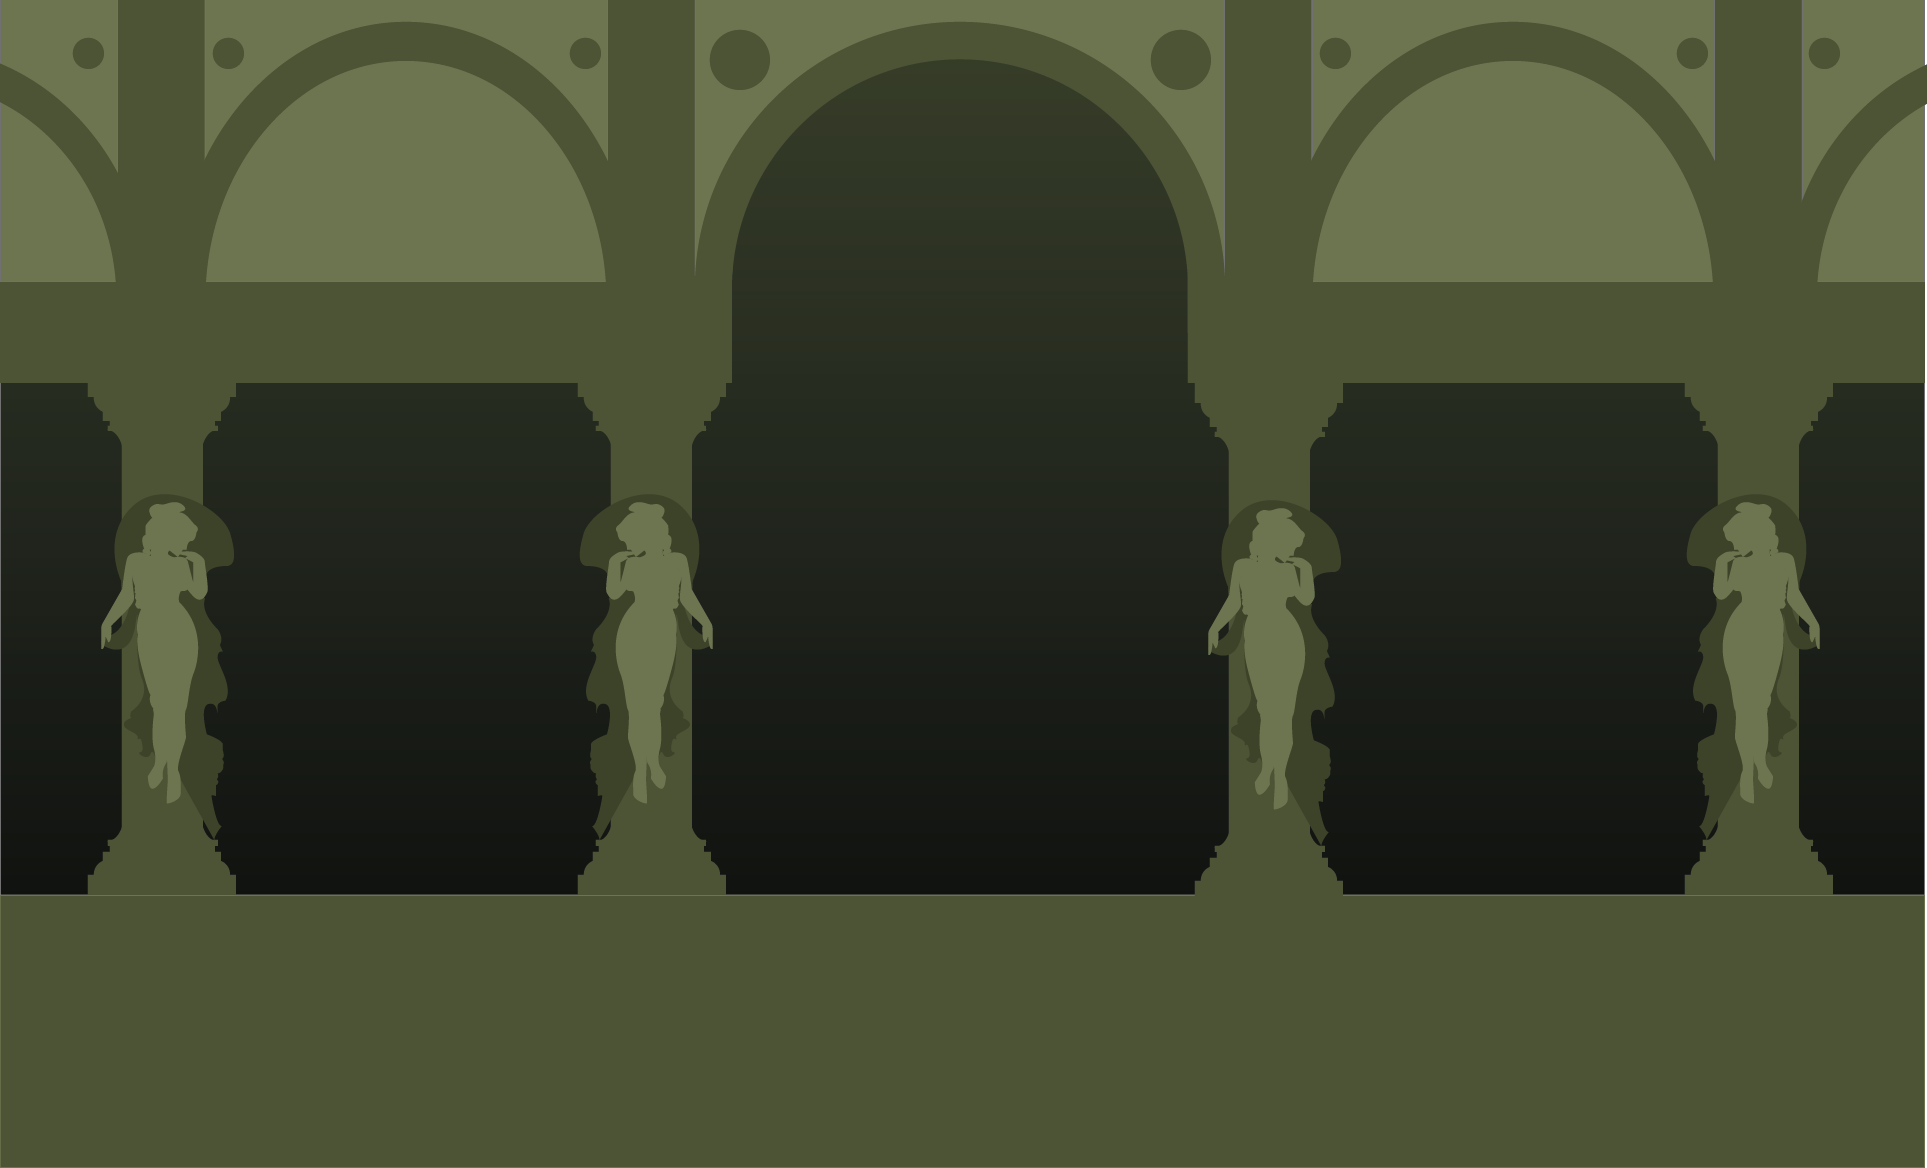
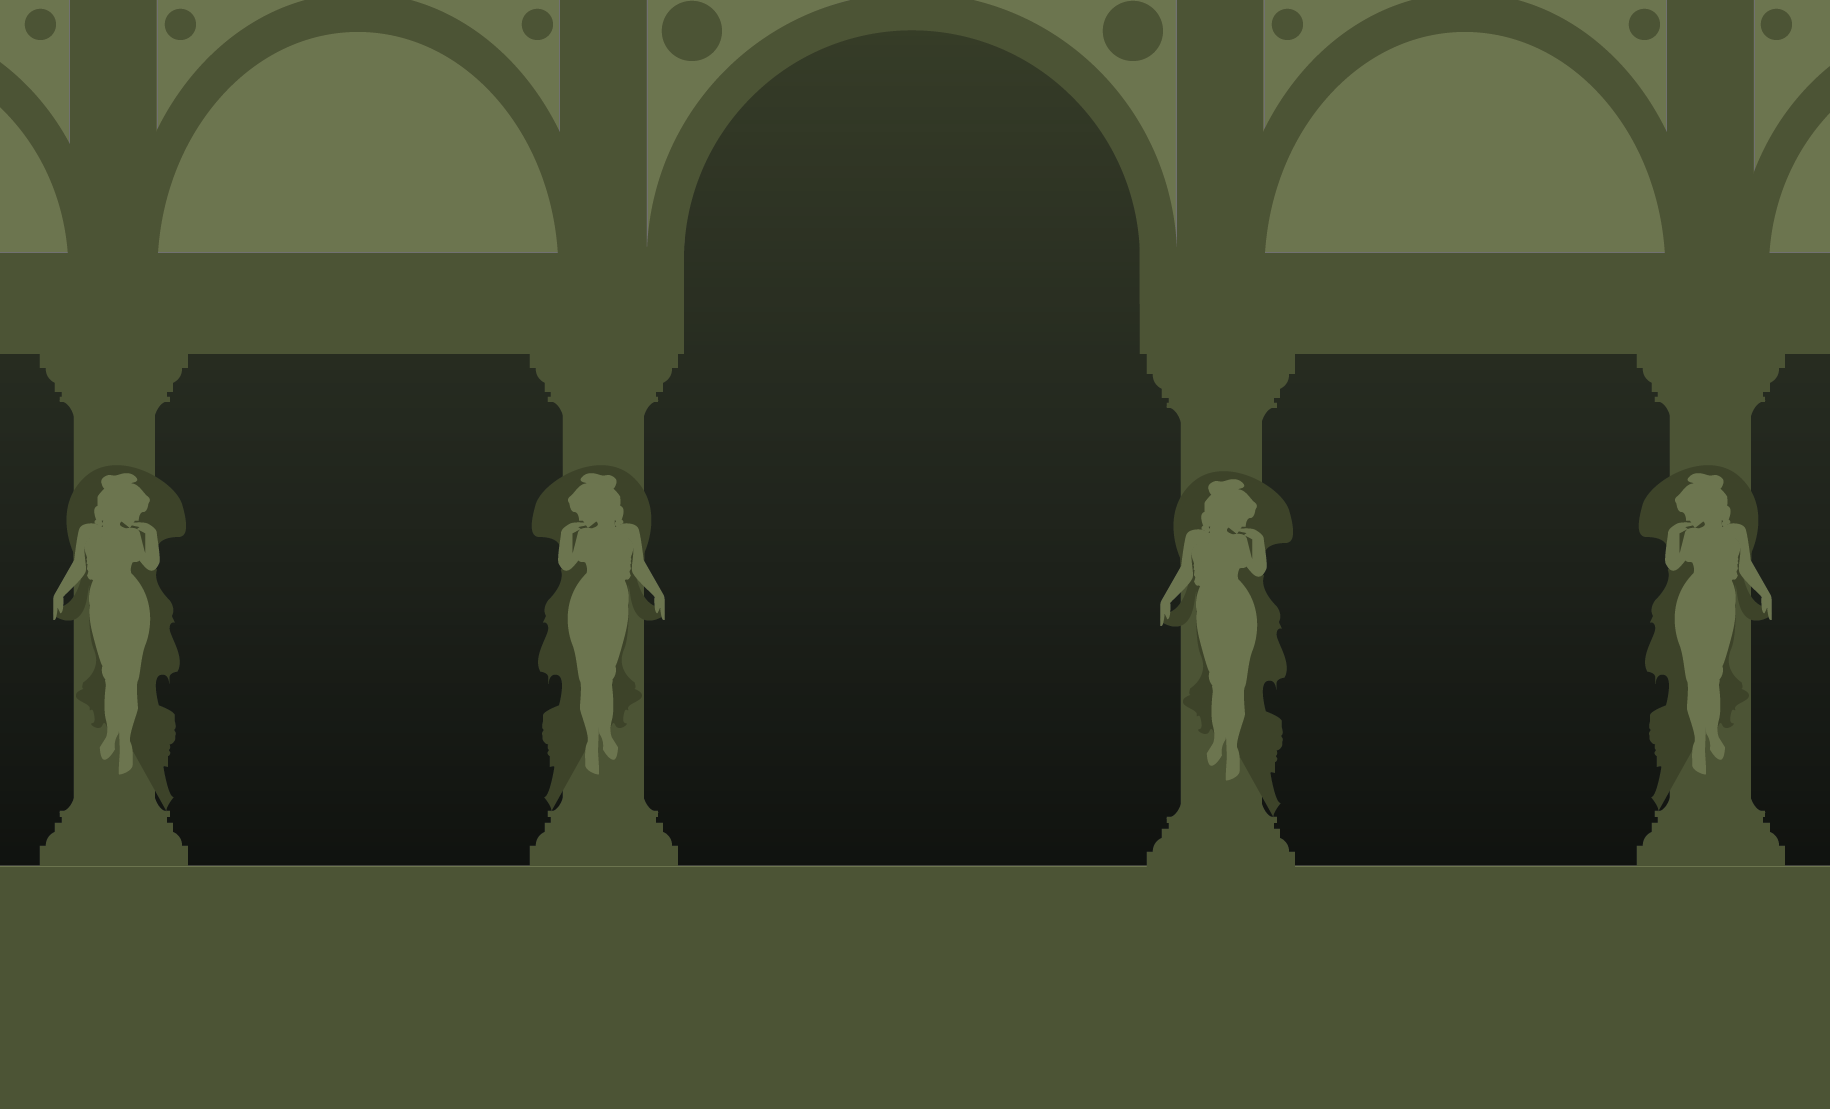
Iniciacion de el main donde se encuentra el arte

Changed region(s): [[0.0, 0.0, 1.0, 1.0], [0.0, 0.3066, 0.3738, 0.7971], [0.3738, 0.7665, 0.623, 0.7971]]

diff --git a/style.css b/style.css
@@ -5,6 +5,8 @@
     font-family: 'Kumbh Sans', sans-serif;
 }
 
+/* NAVBAR*/
+
 .navbar{
     background: #6C754F;
     height: 80px;
@@ -69,7 +71,7 @@
 }
 
 .navbar__links:hover{
-    color: #d2d2d2;
+    color: linear-gradient(to top, #adadad  0%, #e8e8e8 100%)#adadad;
     transition: all 0.3s ease;
 }
 
@@ -172,4 +174,41 @@
         transform: translateY(-8px) rotate(-45deg);
 
     }
+}
+
+/*INTRO*/
+
+.title_container {
+    background-image: url('img/BG-hero.png');
+    background-size: cover; 
+    background-position: center; 
+    height: 370px; 
+    text-align: center; 
+    color: linear-gradient(to top, #adadad  0%, #e8e8e8 100%)hite; 
+    padding-top: 50px;
+}
+
+/* MAIN*/
+.main__container {
+    text-align: center; /* Center align the content */
+}
+
+.art__container {
+    display: flex;
+    flex-wrap: wrap; /* Enable wrapping */
+    justify-content: space-around; /* Center items with equal space around */
+}
+
+.art {
+    width: 45%; /* Each art item takes 45% width */
+    margin: 10px; /* Adjust spacing between art items */
+    background-color: #f9f9f9;
+    padding: 20px;
+    border-radius: 5px;
+    text-align: center;
+}
+
+.art img {
+    max-width: 100%;
+    height: auto;
 }

diff --git a/portafolio.html b/portafolio.html
@@ -38,7 +38,25 @@
             </ul>
         </div>
     </nav>
+    <div class="title_container">
+        <h1>Esther Lupiac</h1>
+        <h3>Portafolio</h3>
+    </div>
     <!--Main-->
+    <div class="main__container">
+        <h1>Arte Digital</h1>
+        <div class="art__ container">
+            <div class="art">
+                <h2>1 Puntos de fuga</h2>
+                <img src="img/1 punto de fuga.png" alt="dibujo1" class="img-standard img-fluid" width="100%">
+            </div>
+            <div class="art">
+                <h2>2 Puntos de fuga</h2>
+                <img src="img/2 puntos de fuga.png" alt="dibujo2" class="img-standard img-fluid" width="100%">
+            </div>
+
+        </div>
+    </div>
     
     <script src="app.js"></script>
 </body>
